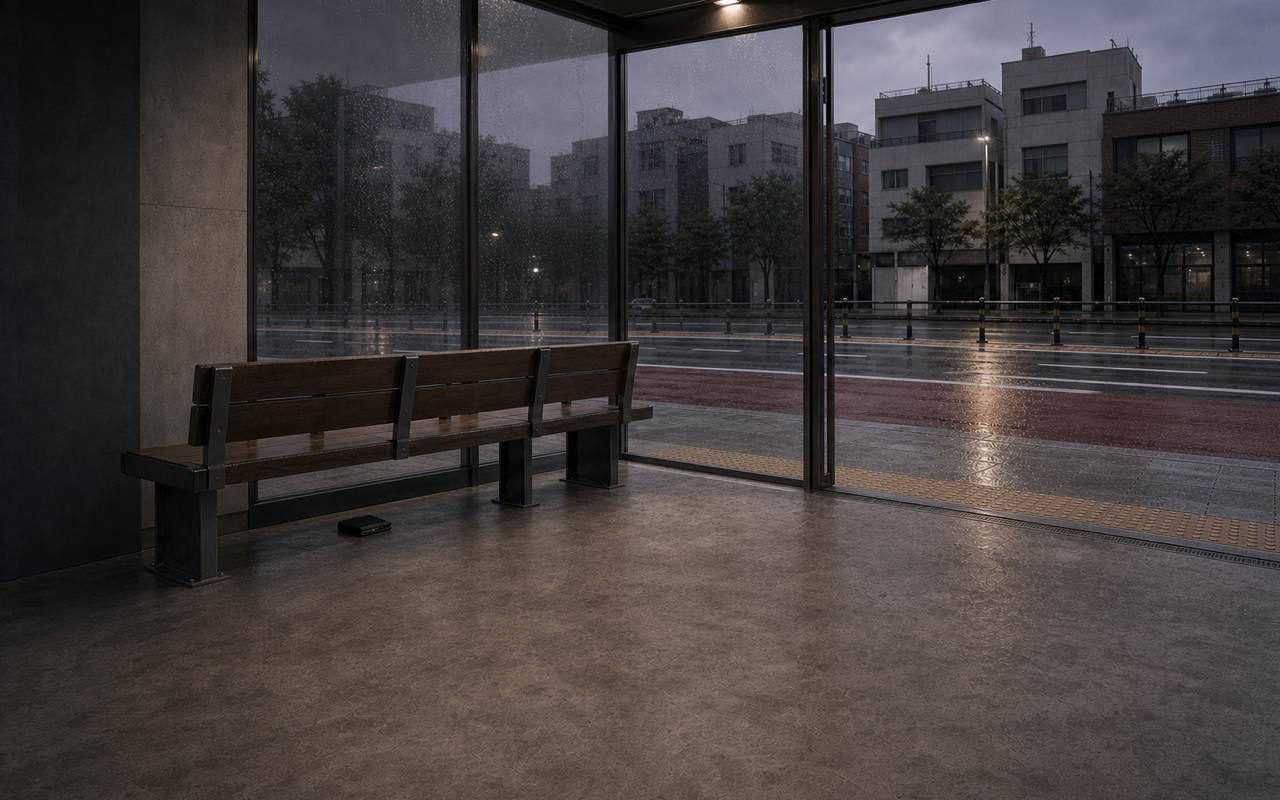
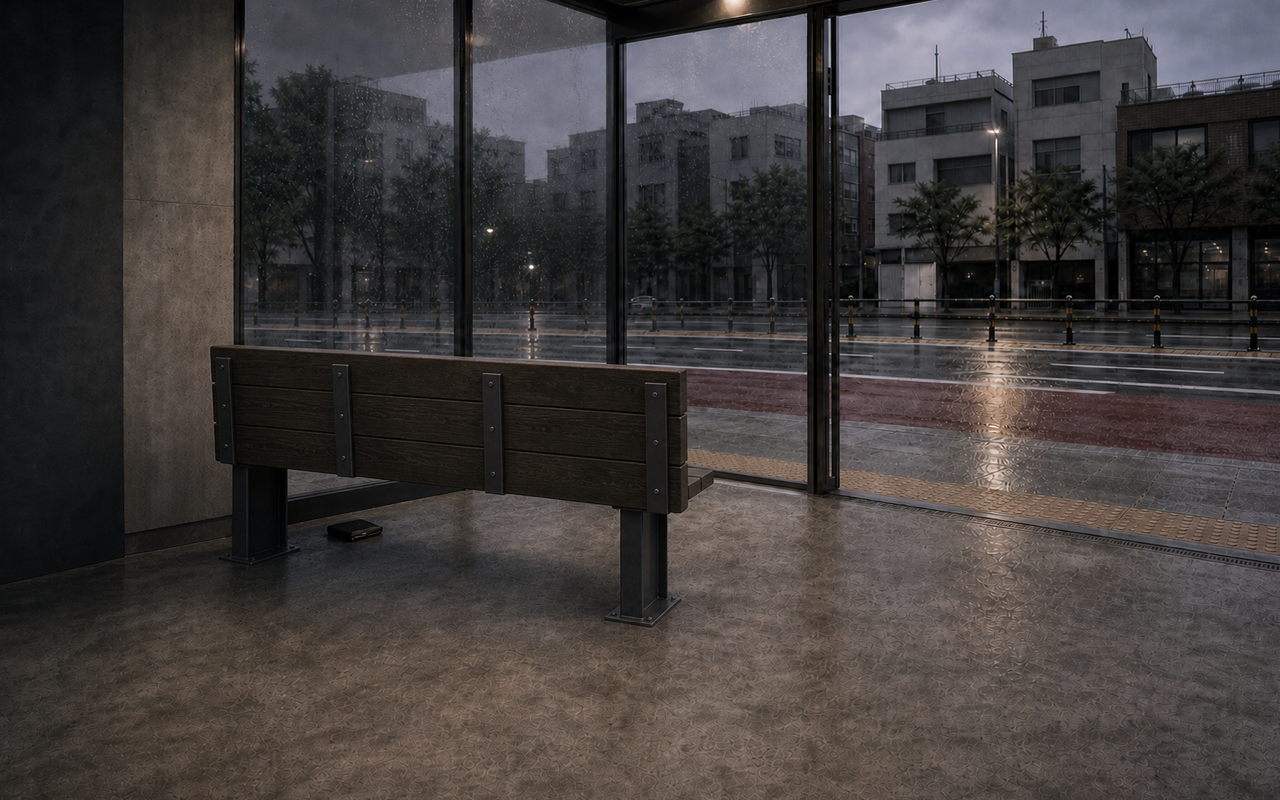
fix(art): correct bus stop bench orientation

diff --git a/assets/IMAGE_PROMPTS.md b/assets/IMAGE_PROMPTS.md
@@ -226,19 +226,23 @@ Gangnam Ink visual language: desaturated Korean visual novel/manhwa realism, con
 ### seoul_bus_stop_wallet.png
 
 - **최종 경로**: `assets/backgrounds/seoul_bus_stop_wallet.png`
-- **최종 생성 원본**: `/Users/junheelee/.codex/generated_images/019ea951-048b-7770-a3e3-ff333c6843da/exec-68b702f0-6cad-4e09-b75d-b3e048135dee.png`
+- **최종 생성 원본**: `/Users/junheelee/.codex/generated_images/019ea951-048b-7770-a3e3-ff333c6843da/exec-3ddf43b2-a2c0-4499-8341-8f6ebd28e894.png`
 - **이전 교정 원본**:
   - `exec-59f2a10b-a2d4-4e68-b74b-5c4154ecd8cf.png`: 벤치가 도로 옆을 향해 물리 구조 탈락.
   - `exec-d5ae909c-2686-41c2-94f8-f080defff7d2.png`: 도로 방향은 합격했지만 지갑이 대사창 아래로 내려가 크롭 탈락.
+  - `exec-68b702f0-6cad-4e09-b75d-b3e048135dee.png`: 좌석면이 카메라 쪽으로 읽혀 도로 반대 방향처럼 보이는 시각적 모호성으로 탈락.
+  - `exec-3de8df09-9f81-4efa-bab5-d78103f13d67.png`: 등받이 뒤/좌석면 구분이 여전히 약해 방향 판독이 모호해 탈락.
 - **최종 프롬프트 체인**:
 
 ```text
 Create a modern Seoul neighborhood bus shelter at player eye level after light rain. The road, curb, bus lane, tactile paving, front glass windbreak, and open boarding doorway must form one physically usable axis. The three-seat bench runs parallel to the curb and its occupants would face the road; show the back of the bench from a rear-left interior camera position. Exactly one small worn black wallet lies under the bench. No people, bus, CCTV, route map, readable sign, text, brand, logo, or watermark.
 
 Then reframe without changing the corrected geometry: pull the camera farther back and slightly higher. Keep the complete bench and wallet in the upper-middle, with the wallet entirely above 62% image height, and leave the lower 35% as noncritical empty shelter floor for the visual-novel dialogue panel. Preserve the rainy Seoul exterior and the bench's road-facing direction.
+
+Finally make the orientation physically unmistakable: show the bench from behind and slightly from its left rear corner. The broad wooden backrest must sit between the camera and the seat; no sitting surface may project toward the camera. The seat plane projects only toward the road-facing glass/open boarding side, visible as a narrow side-profile sliver beyond the right/front edge of the backrest. Keep the wallet visible under the rear side of the bench.
 ```
 
-- **합격 기준**: 벤치 등받이→전면 유리→열린 승차구→점자블록→연석→차로가 한 시선축에 있고, 실제 1280x800 도입/선택지 화면에서 지갑 전체가 UI 위에 남는다.
+- **합격 기준**: 카메라가 등받이의 뒷면을 보고 좌석면은 도로 쪽으로만 뻗는다. 벤치 등받이→전면 유리→열린 승차구→점자블록→연석→차로가 한 시선축에 있고, 실제 1280x800 도입/선택지 화면에서 지갑 전체가 UI 위에 남는다.
 
 ### winter_bungeoppang_stall.png
 

diff --git a/CLAUDE.md b/CLAUDE.md
@@ -13,10 +13,10 @@
 | **상품 정의** | "강남 가는 게임"이 아니라 **"영혼이 색으로 무너지는 걸 지켜보는 게임"** — MORAL_TINT + description_if_known(재독) + 잃을 수 있는 결혼. 마케팅·데모·트레일러 전부 이 하나로 정렬. |
 | **최종 품질 게이트** | 전 영역 기준점·P0~P3·메타90/100만장 검증 조건은 `docs/MASTER_RELEASE_AUDIT.md`. 콘텐츠 수량이 아니라 블랙박스 플레이·한영 패리티·패드 과업·외부 기억/전환 증거로 판정. |
 | **이번 스프린트 (5레버)** | ①**루프 압축(몽타주)** ✅완료 ②**데모 훅** ✅완료(콜드오픈+SNS dik 양변주) ③**클립 가능성** ✅완료(시간의 기록 비주얼 카드+데모판) ④**EN 일관성** ✅완료 ⑤**오디오 정체성** ✅완료(moral band BGM 질감 전이+선택적 3변주 슬롯) |
-| **최근 완료** | **2026-07-12** — **strict 이벤트 비주얼 부채 0**: `길 위의 지갑`은 도로를 향한 벤치·전면 유리·승차구·연석이 연결된 서울 정류장, `겨울 붕어빵`은 실물 틀·완성 빵·어묵 국물·익명 상인이 읽히는 겨울 노점, `설날 세뱃돈`은 기존 창원 집·민준·아버지를 보존한 한국식 세배 CG로 교체했다. 세 장 모두 하단 UI 안전 영역과 KO/EN 선택지 렌더를 통과했고 이벤트 비주얼 계약은 54개 잠금 / strict 부채 0, CG 연기 계약은 활성 29장으로 갱신됐다. |
+| **최근 완료** | **2026-07-12** — `길 위의 지갑` 정류장 벤치의 방향을 재교정했다. 카메라는 등받이 뒷면을 보고 좌석면은 전면 유리·승차구·도로 쪽으로만 뻗어 방향이 모호하지 않으며, 지갑과 하단 UI 안전 영역은 유지된다. **strict 이벤트 비주얼 부채 0** 상태(54개 잠금 / 부채 0)와 설날 CG 연기 계약 29장은 유지한다. |
 | **이전 주요** | **2026-07-12** — 카페 폴더 주인/김 부장 분리, 현수 터미널/회계·공무원 연속성, AP 24종 인월드 목적지 스틸 전환, 상철 강남 개인실, Year 2-4 겨울 연말, MORAL_TINT 명도 불변/Black 금빛 돈/주간 지각 완료. **2026-07-11** — 첫날밤/첫아침, 시골 여름, 남산·놀이동산, 첫눈/기후 의상 완료. 전체 이력 → `docs/WORK_LOG.md` |
 | **다음 작업** | T1 프로포즈·결혼식/엔딩 비주얼 통합으로 넘어간다. 먼저 실제 이벤트 트리거·복장·관계 상태를 감사한 뒤, 공유 가능한 정점 CG와 엔딩별 고유 컷을 구분한다. 모든 신규 CG는 연기 manifest와 KO/EN 실제 크롭을 통과한다. |
-| **마지막 업데이트** | 2026-07-12 (Codex: 버스정류장·붕어빵·설날 전용 장면으로 strict 비주얼 부채 0 달성) |
+| **마지막 업데이트** | 2026-07-12 (Codex: 정류장 벤치 좌석 방향 시각 판독 교정) |
 
 **세션 시작 시 위 "다음 작업"부터. 유저가 다른 지시를 하면 그쪽 우선.**
 

diff --git a/docs/RELEASE_NOTES.md b/docs/RELEASE_NOTES.md
@@ -1,6 +1,7 @@
 # Gangnam Dream Release Notes
 
 ## Unreleased
+- Corrected the wallet-event bus shelter so the bench direction is visually unambiguous: the camera now sees the rear of the backrest, while the seat projects only toward the front glass, boarding opening, curb, and road. The wallet and 1280x800 dialogue-safe composition are preserved.
 - Cleared the event-visual strict debt gate. `A Wallet on the Ground` now uses a physically coherent Seoul shelter whose road-facing bench, front glass, boarding opening, curb, and wallet survive the dialogue/choice crop; `Winter Bungeoppang` shows the actual cart, molds, pastries, broth steam, and an anonymous vendor; and `Seollal` uses a one-off four-person CG in the canonical Changwon home with a correct Korean bow, Father/relatives' gaze, and no reunited mother. Added exact background/CG/ambience assertions, KO/EN choice captures, a CG acting contract, and natural English glosses. Visual contracts now pass strict mode at 54 locked / 0 debt.
 - Split the cafe scenario's two previously conflated men into stable identities. The lean unnamed folder owner now carries a charcoal suit, teal shirt, and blank folio; the stockier Manager Kim carries a taupe jacket, oxblood knit, and phone. Seventeen first-meeting and callback events no longer reuse the office Team Lead or hide the speaker, the folder owner reveals only when he returns in paragraph two, and Korean/English name tags and portrait paths are asserted in StoryMode. Also normalized `Manager Kim`, corrected the reversed folder-peeking translation, and replaced the broker's contradictory "no broker" line with a no-commission direct deal. Visual contracts are now 53 locked / 3 known debt.
 - Gave Hyunsu a coherent visual passage from exam-prep life to departure and employment. Saying goodbye now changes only the choice result to a physically coherent Seoul intercity terminal with traffic ambience, while later callbacks select either his accounting-firm suit/business-card portrait or civil-service jacket/badge portrait from the same identity. StoryMode now supports audited flag-dependent portraits and result-location ambience without restarting BGM; the event visual gate is 41 locked / 7 known debt with 27-shot Korean and English coverage.

diff --git a/docs/WORK_LOG.md b/docs/WORK_LOG.md
@@ -1,5 +1,18 @@
 # Gangnam Dream Work Log
 
+## 2026-07-12 (Codex — bus-stop bench orientation correction)
+
+### 진단
+- 정류장 배경은 문서상 도로를 향하는 벤치였지만 좌석면이 카메라 쪽으로 돌출돼 실제 화면에서는 반대 방향으로 읽혔다. 구조가 맞다는 설명보다 플레이어가 한눈에 방향을 판독할 수 있는지가 우선이었다.
+
+### 구현
+- 카메라가 벤치 등받이의 뒷면을 명확히 보도록 벤치를 다시 구성했다. 좌석면은 카메라 쪽으로 전혀 나오지 않고 전면 유리·승차구·도로 쪽으로만 뻗으며, 우측 끝의 얇은 측면으로 방향을 확인할 수 있다. 지갑과 도로·연석·점자블록·전면 유리 구조는 유지했다.
+- 최종 이미지는 중앙 크롭 후 1280×800 PNG로 정규화하고 생성 원본과 탈락 사유를 `assets/IMAGE_PROMPTS.md`에 기록했다.
+
+### 검증
+- Godot 재임포트 후 한국어 `--qa=event-visuals`의 `event_visual_ko_06a_bus_stop_wallet` 도입/선택지 컷을 직접 확인했다. 두 컷 모두 등받이 뒷면·도로 방향 좌석·지갑·승차구가 UI와 겹치지 않는다.
+- `event_visual_contract_check.py --strict`는 54개 잠금 / 부채 0을 유지했다. 전체 `audit.sh`도 ERROR 0/WARNING 0, 영어 누출 0, CG 연기 계약, 오디오/BGM, 밸런스, 57개 GDScript 컴파일을 통과하고 `✅ 감사 통과`로 종료됐다.
+
 ## 2026-07-12 (Codex — strict event visual debt zero)
 
 ### 진단
